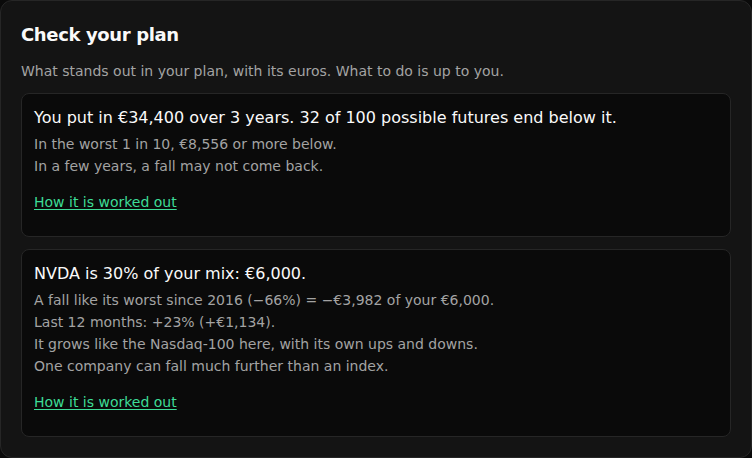
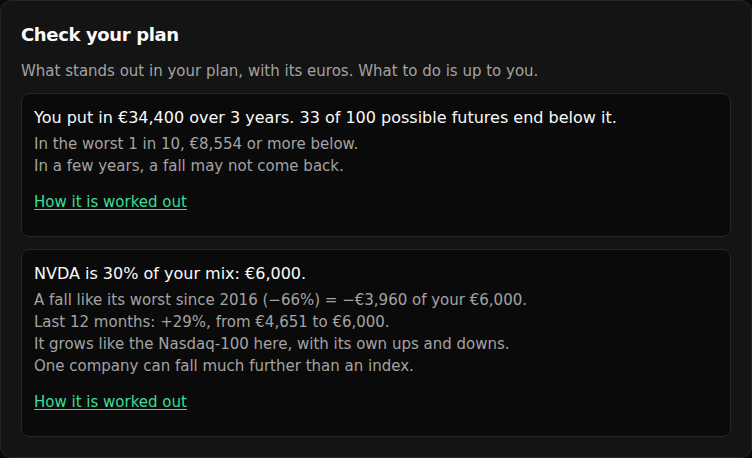
Check your plan: sums a reader can check, and a dated handoff
The euros of a fall and of the last 12 months come from the percent and
the euros as shown (66% of €6,000 = €3,960), and the last 12 months read
"+29%, from €4,651 to €6,000" instead of "+29% (+€1,347)" beside
"€6,000", which looked like a wrong 29%. Savings gaps are the
difference of the rounded figures on the page. Tests first.

Also the handoff of 7 October, the README status and test count, the
weight per page (214 to 241 KB) and the phase 6 screenshots again.

Claude-Session: https://claude.ai/code/session_01BcV4Bj22BrAC8vej9vmEnb

diff --git a/projects/wealth-lens/src/lib/plan-check.test.ts b/projects/wealth-lens/src/lib/plan-check.test.ts
@@ -192,8 +192,27 @@ describe("Check your plan", () => {
   it("reads as the principle asks: a fall, in euros of the user's money", () => {
     const concentrated = shown.find((check) => check.id === "concentration" && check.where === "portfolio");
     const { details } = checkWords(concentrated!, EN);
-    // ASML: 9 × €1,601.20 = €14,410.80; its worst fall since 2016, −48.42%: −€6,977.71.
-    expect(details[0]).toBe("A fall like its worst since 2016 (−48%) = −€6,978 of your €14,411.");
-    expect(checkWords(concentrated!, ES).details[0]).toBe("Una caída como su peor desde 2016 (−48 %) = −6978 € de tus 14.411 €.");
+    // ASML: 9 × €1,601.20 = €14,411; its worst fall since 2016, −48.42%, shows as −48%: 48% of €14,411 = −€6,917,
+    // the sum a reader can check (as in "(−37%) = −€407 of your €1,100").
+    expect(details[0]).toBe("A fall like its worst since 2016 (−48%) = −€6,917 of your €14,411.");
+    expect(checkWords(concentrated!, ES).details[0]).toBe("Una caída como su peor desde 2016 (−48 %) = −6917 € de tus 14.411 €.");
+  });
+
+  it("subtracts the euros as they are shown, so the sums on the page add up", () => {
+    // €370,414.60 and €151,175.40 show as €370,415 and €151,175: the gap shown is €219,240, not €219,239.
+    const check: PlanCheck = { id: "savings", years: 30, total: 151_175.4, putIn: 164_000, world: { typical: 370_414.6, bad: 169_417, rate: 0.045, period: [1988, 2022] } };
+    const { lead, details } = checkWords(check, EN);
+    expect(lead).toEqual(["In 30 years, savings are worth €151,175 of today's money.", "That is €12,825 less than you put in."]);
+    expect(details).toContain("World stocks (1988–2022) typically give €370,415: €219,240 more.");
+  });
+
+  it("gives the last 12 months as where its euros came from, so the percent can be checked by eye", () => {
+    // €6,000 today after +25%: €4,800 a year ago. "+25% (+€1,200)" beside "€6,000" read as a wrong 25% of €6,000.
+    const check: PlanCheck = { id: "concentration", where: "mix", name: "NVDA", share: 0.3, amount: 6000, total: 20_000, atEnd: false, fall: null, change1y: 0.25, reference: "nasdaq100" };
+    expect(checkWords(check, EN).details[0]).toBe("Last 12 months: +25%, from €4,800 to €6,000.");
+    expect(checkWords(check, ES).details[0]).toBe("Últimos 12 meses: +25 %, de 4800 € a 6000 €.");
+    // +28.6% shows as +29%: €6,000 ÷ 1.29 = €4,651, so that €4,651 + 29% = €6,000 on the page.
+    expect(checkWords({ ...check, change1y: 0.286 }, EN).details[0]).toBe("Last 12 months: +29%, from €4,651 to €6,000.");
+    expect(checkWords({ ...check, change1y: -0.2 }, ES).details[0]).toBe("Últimos 12 meses: −20 %, de 7500 € a 6000 €.");
   });
 });

diff --git a/projects/wealth-lens/src/i18n/check-text.ts b/projects/wealth-lens/src/i18n/check-text.ts
@@ -29,12 +29,16 @@ export function checkWords(check: PlanCheck, i18n: I18n): CheckWords {
     case "concentration": {
       const t = m.check.concentration;
       const percent = f.percent(check.share, { decimals: 0 });
-      const amount = f.eur(check.amount);
+      // The euros come from the whole percent and euros shown, so a reader can check the sum: 48% of €14,411 = €6,917.
+      const held = Math.round(check.amount);
+      const amount = f.eur(held);
       const lead = check.where === "portfolio" ? t.portfolio(check.name, percent, amount) : (check.atEnd ? t.mixAtEnd : t.mix)(check.name, percent, amount);
+      const fall = check.fall ? Math.round(check.fall.max * 100) / 100 : null;
+      const change = check.change1y !== null ? Math.round(check.change1y * 100) / 100 : null;
       const details = [
-        ...(check.fall ? [t.fall(check.fall.from.slice(0, 4), f.percent(-check.fall.max, { decimals: 0 }), f.eur(-check.amount * check.fall.max, { signed: true }), amount)] : []),
-        // A year ago it was worth amount ÷ (1 + change): the change, in euros of what is held.
-        ...(check.change1y !== null ? [t.lastYear(f.percent(check.change1y, { signed: true, decimals: 0 }), f.eur(check.amount - check.amount / (1 + check.change1y), { signed: true }))] : []),
+        ...(check.fall && fall !== null ? [t.fall(check.fall.from.slice(0, 4), f.percent(-fall, { decimals: 0 }), f.eur(-held * fall, { signed: true }), amount)] : []),
+        // A year ago it was worth what it is now ÷ (1 + change): from that to its euros now.
+        ...(change !== null && change > -1 ? [t.lastYear(f.percent(change, { signed: true, decimals: 0 }), f.eur(held / (1 + change)), amount)] : []),
         ...(check.where === "mix" ? [t.growsLike(m.assets.inSentence[check.reference])] : []),
         t.oneCompany,
         ...(check.where === "portfolio" ? [t.euros] : []),
@@ -43,11 +47,13 @@ export function checkWords(check: PlanCheck, i18n: I18n): CheckWords {
     }
     case "savings": {
       const t = m.check.savings;
-      const { total, putIn, world } = check;
+      // Whole euros, as shown, so each gap is the difference of the figures on the page.
+      const [total, putIn, typical] = [check.total, check.putIn, check.world.typical].map(Math.round);
+      const { world } = check;
       const lead = [t.keeps(m.units.years(check.years), f.eur(total)), total < putIn ? t.less(f.eur(putIn - total)) : t.more(f.eur(total - putIn))];
       const details = [
         ...(total < putIn ? [t.why] : []),
-        t.world(periodText(world), f.eur(world.typical), f.eur(world.typical - total)),
+        t.world(periodText(world), f.eur(typical), f.eur(typical - total)),
         t.worldBad(f.eur(world.bad)),
       ];
       return { lead, details };

diff --git a/projects/wealth-lens/src/i18n/messages/es.ts b/projects/wealth-lens/src/i18n/messages/es.ts
@@ -1094,7 +1094,7 @@ export const es: Messages = {
       mixAtEnd: (name: string, percent: string, amount: string) => `${name} es el ${percent} de tu mezcla: ${amount} al final.`,
       portfolio: (name: string, percent: string, amount: string) => `${name} es el ${percent} de tu cartera: ${amount}.`,
       fall: (year: string, fall: string, amount: string, base: string) => `Una caída como su peor desde ${year} (${fall}) = ${amount} de tus ${base}.`,
-      lastYear: (change: string, amount: string) => `Últimos 12 meses: ${change} (${amount}).`,
+      lastYear: (change: string, from: string, to: string) => `Últimos 12 meses: ${change}, de ${from} a ${to}.`,
       growsLike: (reference: string) => `Aquí crece como ${reference}, con sus propios altibajos.`,
       oneCompany: "Una sola empresa puede caer mucho más que un índice.",
       euros: "Solo se cuentan las posiciones en euros.",

diff --git a/projects/wealth-lens/src/i18n/messages/en.ts b/projects/wealth-lens/src/i18n/messages/en.ts
@@ -1126,7 +1126,7 @@ export const en = {
       portfolio: (name: string, percent: string, amount: string) => `${name} is ${percent} of your portfolio: ${amount}.`,
       /** "A fall like its worst since 2016 (−48%) = −€2,400 of your €5,000." */
       fall: (year: string, fall: string, amount: string, base: string) => `A fall like its worst since ${year} (${fall}) = ${amount} of your ${base}.`,
-      lastYear: (change: string, amount: string) => `Last 12 months: ${change} (${amount}).`,
+      lastYear: (change: string, from: string, to: string) => `Last 12 months: ${change}, from ${from} to ${to}.`,
       growsLike: (reference: string) => `It grows like ${reference} here, with its own ups and downs.`,
       oneCompany: "One company can fall much further than an index.",
       euros: "Only holdings in euros are counted.",

diff --git a/projects/wealth-lens/docs/continuity-2026-10-07.md b/projects/wealth-lens/docs/continuity-2026-10-07.md
@@ -1,0 +1,70 @@
+# Handoff — 2026-10-07: wishes by country and Check your plan
+
+Base: master at fcbd8ef (prices of 2026-10-07), with #26–#31 merged.
+PR #17's hosting migration and its branch remain untouched.
+
+Two branches, one PR each, to merge in this order:
+
+1. `claude/wl-p5-wishes` (PR #32): "With this you could" under the big
+   number, prices by country and the new headline. It merges master in.
+2. `claude/wl-p6-check` (the phase 6 PR): "Check your plan". It comes out
+   of the phase 5 branch and merges it in, so merging it alone brings both.
+
+## Phase 5: wishes
+
+- Up to three wishes under the big number, each with icon, price and when
+  the plan gets there. Tapping one adds it to My goals as a priority (★).
+- Rule (src/lib/wishes.ts, research/wealth-lens/deseos.md), following
+  docs/direction.md and Marek's note of 2026-10-05: the person's own
+  priorities first; then one example per open area (experiences, housing,
+  time), the dearest the plan reaches within its own years, else the
+  cheapest with its date; nothing beyond 60 years. No fixed short, medium
+  or long. Living without working is master's `freedom` goal at the
+  prices' country, rent included. No `stopWorking` field: the data file
+  stays at version 10.
+- Prices of: the region of the browser's language (seed-kit `regionOf`,
+  `pricesCountry`), six countries (NL, ES, DE, FR, IT, PT), Netherlands
+  otherwise. In memory only: not stored, not in the data file. It affects
+  wishes and goals only, not inflation ("Rising prices in").
+- Dataset: src/data/connections.json, each price with publisher, basis,
+  date and "≈" for estimates.
+
+## Phase 6: Check your plan
+
+- 0 to 3 observations after What if (src/lib/plan-check.ts, words in
+  src/i18n/check-text.ts, research/wealth-lens/chequeo.md):
+  horizon (plan or a goal under 5 years, volatile money, from 1 in 10
+  futures below what was put in), concentration (one stock over 20% of
+  the mix or of My portfolio, index funds aside; replaces the 40% finding)
+  and savings (savings account for 10 years or more, against what was put
+  in and against world stocks).
+- Every percent with its euros. The euros come from the percent and the
+  euros as shown, and gaps from rounded figures, so sums can be checked
+  by hand. Each links to its section of How it works and its research
+  anchor. It never says what to buy, sell or weigh
+  (research/legal/informar-no-aconsejar.md, item 4).
+
+## Verification (phase 6 head, after merging phase 5 and master)
+
+Wealth Lens lint, types, 826 unit tests, clean build (`rm -rf .next out`)
+and 32 browser tests passed. Recalculation in the browser, 156 changes:
+median 0.7 ms, p95 3.3 ms, max 10.0 ms. Lighthouse mobile performance:
+/ 96, /es 98, /how-it-works 96, /es/how-it-works 99; 100 in the other
+three categories. First-visit weight 214–241 KB. No requests outside the
+site; no cookies or browser storage. Screenshots in docs/screenshots
+(p5-*, p6-*).
+
+## Open for Marek
+
+- Price sources read through search engines or press (blocked sites):
+  listed in research/wealth-lens/deseos.md, "Pendiente de comprobar".
+  Japan's figure is the January 2026 preliminary one.
+- The legal sheet (research/legal/informar-no-aconsejar.md) needs a
+  professional's review, including the recital numbers it cites.
+- The wishes rule replaces the phase request's fixed horizons because
+  docs/direction.md says so; confirm or change it in src/lib/wishes.ts.
+- The savings check compares with world stocks over their own period;
+  confirm that this comparison reads as information, not advice.
+
+Do not infer desired purchase dates, shared spending deductions, or advice
+from the wishes or the checks.

diff --git a/projects/wealth-lens/README.md b/projects/wealth-lens/README.md
@@ -26,10 +26,10 @@ tabla de *Principles* del hub, `packages/seed-kit/src/tools.json`):
 | Your data never leaves your device | Cumple | Todo se calcula en el navegador; nada se guarda ni se envía. |
 | Transparent | En parte | Gratis, con método y fuentes públicos; los cambios del método aún no se publican. |
 | Truly European | Pendiente | EN y ES, pero alojada en Vercel (EE. UU.) y sin auditoría de accesibilidad hecha por personas. |
-| Light | Cumple | De 214 a 240 KB por página en la primera visita, por debajo del límite de 350 KB. |
+| Light | Cumple | De 214 a 241 KB por página en la primera visita, por debajo del límite de 350 KB. |
 | For everyone | En parte | Palabras sencillas, teclado y objetivos de 44 px; aún sin pruebas con personas reales. |
 
-**Estado actual (2026-10-05):** dos pantallas (Next.js 16 + TypeScript +
+**Estado actual (2026-10-07):** dos pantallas (Next.js 16 + TypeScript +
 Tailwind 4), exportadas como sitio estático. La principal empieza con
 **cuatro pasos numerados**, con los importes vacíos y el crecimiento en
 5 %; el resultado llega al pulsar *See my result* (solo la primera vez),
@@ -38,7 +38,7 @@ opcionales. El móvil es el diseño principal. La app no
 supone nada sobre la vida del usuario: no pregunta país, ni si alquila o
 es propietario, ni qué quiere hacer con su dinero. Nada se guarda ni se
 envía, y la app no llama a ningún servicio mientras se usa. La lógica
-vive en funciones puras con 790 tests unitarios (Vitest). El uso real
+vive en funciones puras con 826 tests unitarios (Vitest). El uso real
 sostenido (la condición del peldaño 1 de seed-lab) todavía no está
 demostrado. Solo se proyecta lo que tiene una
 historia larga y un rango conocido; nada se presenta como predecible, y

diff --git a/research/wealth-lens/chequeo.md b/research/wealth-lens/chequeo.md
@@ -74,12 +74,18 @@ dinero hoy, × el total al final, y lo dice); en *Mi cartera*, su valor.
 **Su peor caída** es la mayor caída desde un máximo en los precios
 guardados (`drawdown` de `public/data/prices.json`, desde el inicio de su
 historia guardada), aplicada a esos euros; también el cambio de los
-últimos 12 meses, en euros.
+últimos 12 meses, como de dónde vienen esos euros: "+25 %, de 4800 € a
+6000 €" (con "+25 % (+1200 €)" al lado de "6000 €", el lector calcula el
+25 % de 6000 € y cree ver un error).
 
 **Ejemplo:** una mezcla 75 % Mundo y 25 % NVDA con 10.000 €: "NVDA es el
 25 % de tu mezcla: 2500 €. Una caída como su peor desde 2016 (−66 %) =
-−1659 € de tus 2500 €." Es la forma del principio de toda la app: ningún
-porcentaje sin sus euros.
+−1650 € de tus 2500 €." Es la forma del principio de toda la app: ningún
+porcentaje sin sus euros. Los euros salen del porcentaje y los euros tal
+como se muestran (66 % de 2500 €), no de la cifra exacta (−66,37 % daría
+−1659 €): así la cuenta se puede comprobar a mano. Por lo mismo, cada
+diferencia entre dos cifras se calcula con las cifras redondeadas que se
+ven.
 
 **Cambio respecto a antes:** *Para tener en cuenta* tenía su propio
 hallazgo de concentración para *Mi cartera* con un umbral del 40 %, y la
